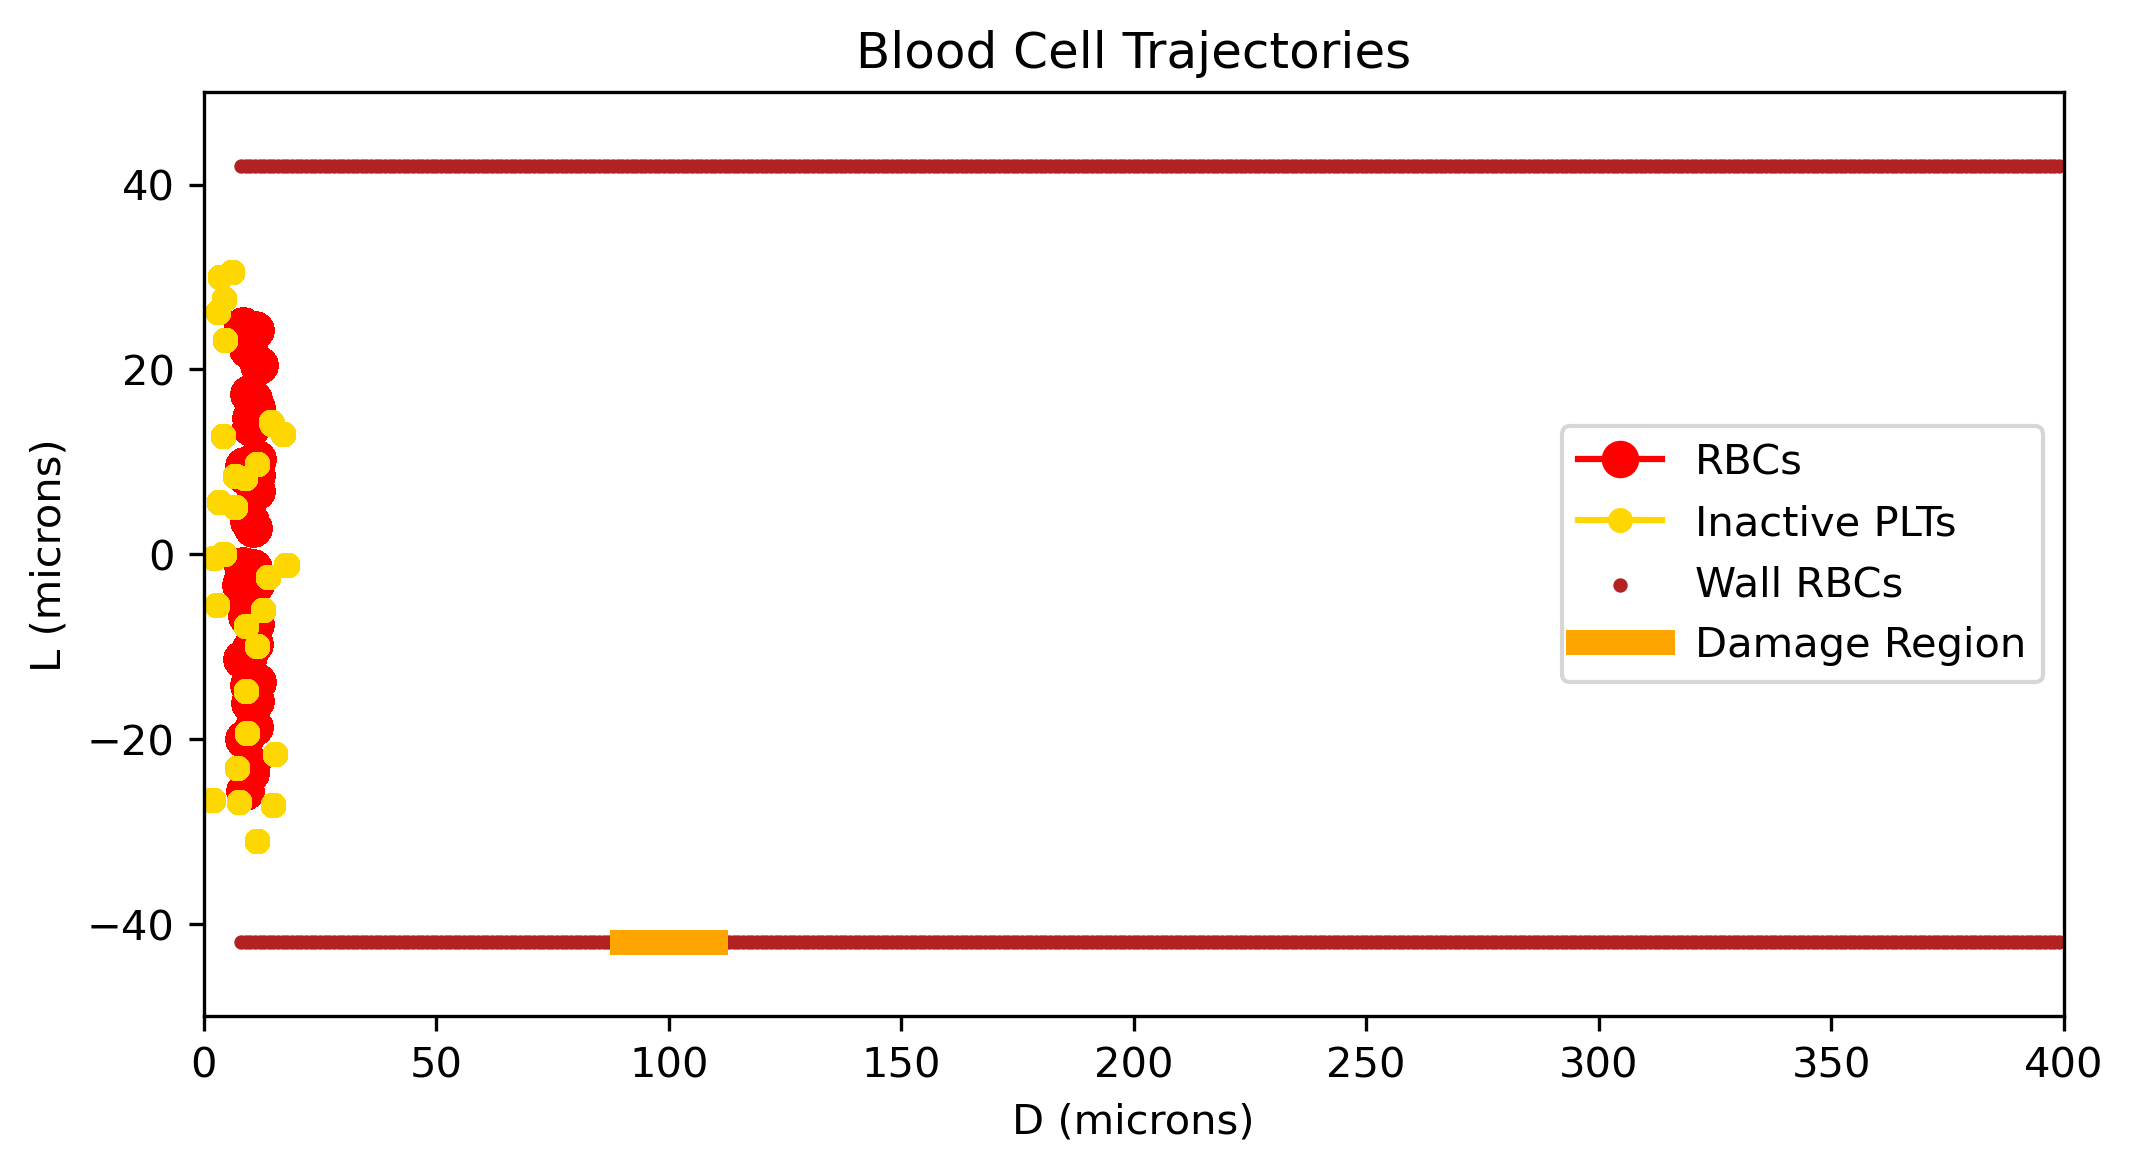
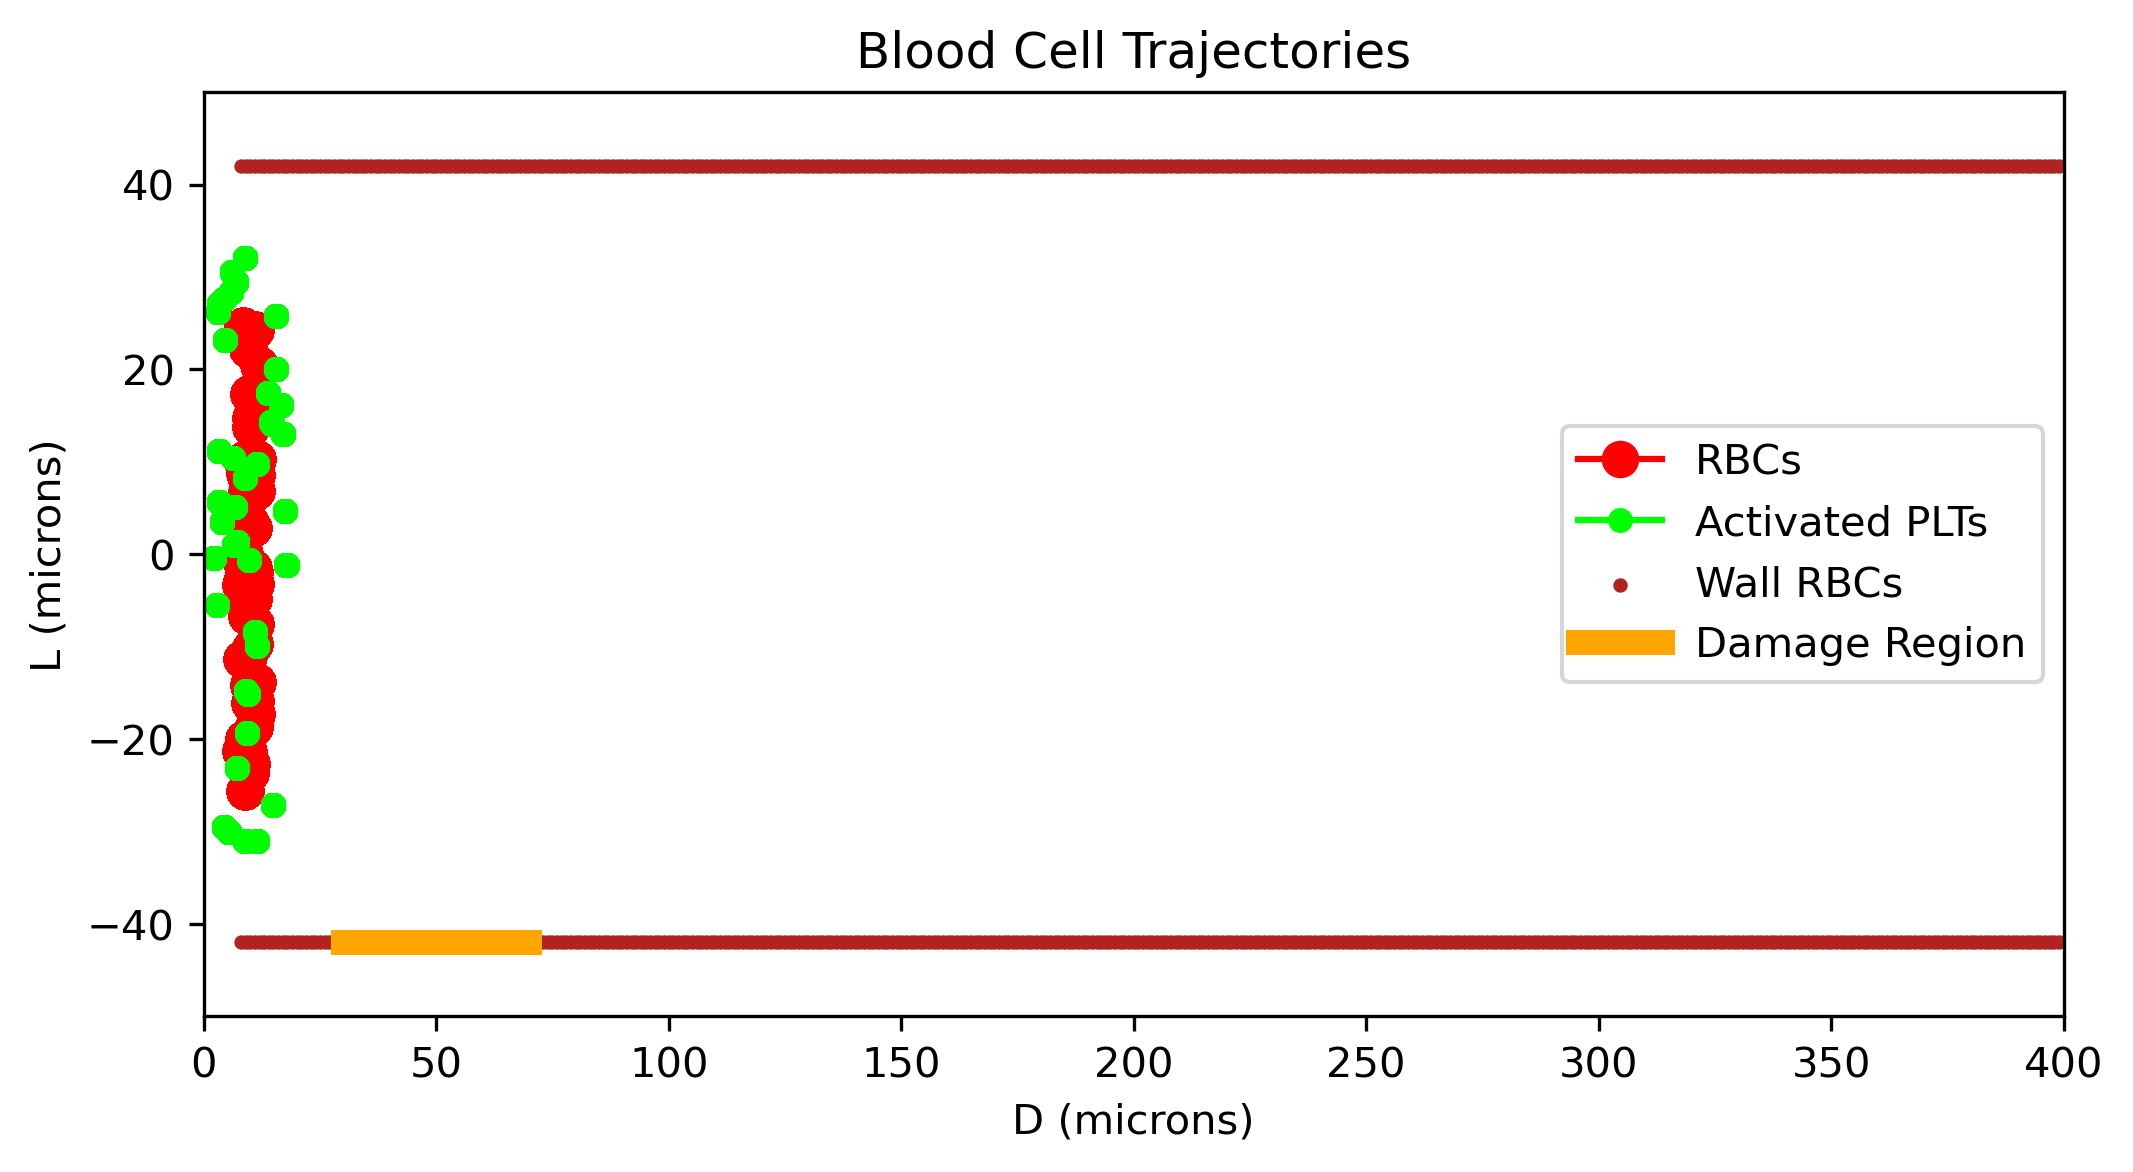
need to increase adhesion forces

diff --git a/BloodClotting/run_model.py b/BloodClotting/run_model.py
@@ -20,22 +20,22 @@ rbc_mass = 1.1  # nanograms
 plt_radius = 1.5  # microns
 plt_mass = 0.0124  # nanograms
 
-n_rbcs = 40  #number of RBCs to simulate
-n_plts = 30  #number of platelets to simulate
+n_rbcs = 50  #number of RBCs to simulate
+n_plts = 40  #number of platelets to simulate
 rng_seed = 42  #seed for reproducibility
 k_contact = 0.1  #repulsive contact spring stiffness
 
 #Platelet activation and adhesion parameters
-threshold = 16.0  #activation threshold distance in microns
+threshold = 20 #activation threshold distance in microns
 activation_time_required = 5e-7  #seconds
-adhesion_cutoff = 8.0  #adhesion cutoff distance in microns
-k_adhesion = 1.0  #adhesion spring strength
+adhesion_cutoff = 24  #adhesion cutoff distance in microns
+k_adhesion = 10000 #adhesion spring strength
 
 # Time stepping for the simulation
 dt = 1e-8  #time step in seconds
-n_steps = 2000  #number of simulation steps to run
+n_steps = 1000  #number of simulation steps to run
 
-# Vessel and flow parameters
+#Vessel and flow parameters
 L = 400  #length of the vessel in microns
 D = 100  # iameter of the vessel in microns
 R = D / 2  #radius of the vessel in microns
@@ -43,12 +43,12 @@ mu = 0.012 * 1e5  #plasma viscosity in ng / (micron * s)
 V_max = 1.0 * 1000  #maximum plasma velocity in microns / s
 inlet_width = 20.0  #width of the left-side inlet band in microns
 
-# Place the damaged region near the inlet so platelet activation is testable
-# without requiring an extremely long simulation time.
-damage_center_x = 100.0
+#Place the damaged region near the inlet so platelet activation is testable
+#without requiring an extremely long simulation time.
+damage_center_x = 50.0
 damage_region = {
-    "x_min": damage_center_x - 10.0,
-    "x_max": damage_center_x + 10.0,
+    "x_min": damage_center_x - 20.0,
+    "x_max": damage_center_x + 20.0,
     "y": -(R - rbc_radius),
     "contact_y": -(R - rbc_radius) + rbc_radius + plt_radius,
 }
